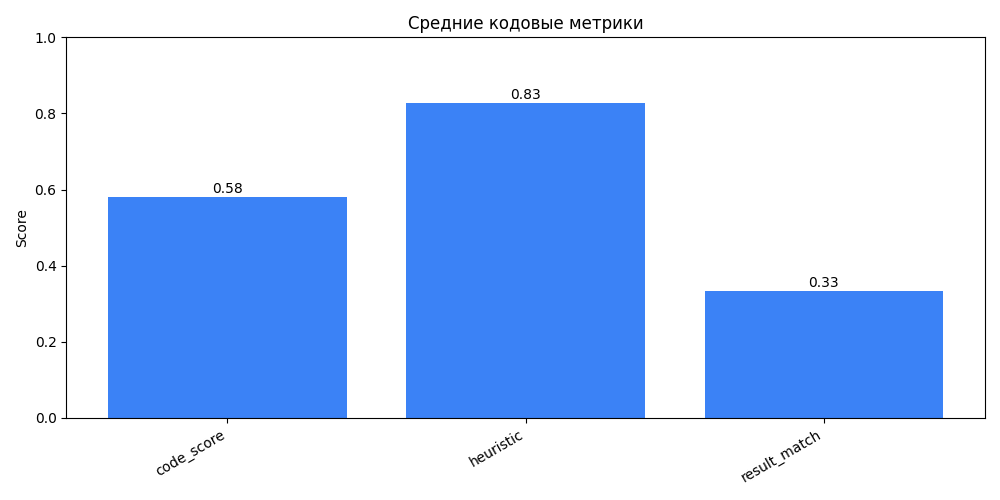
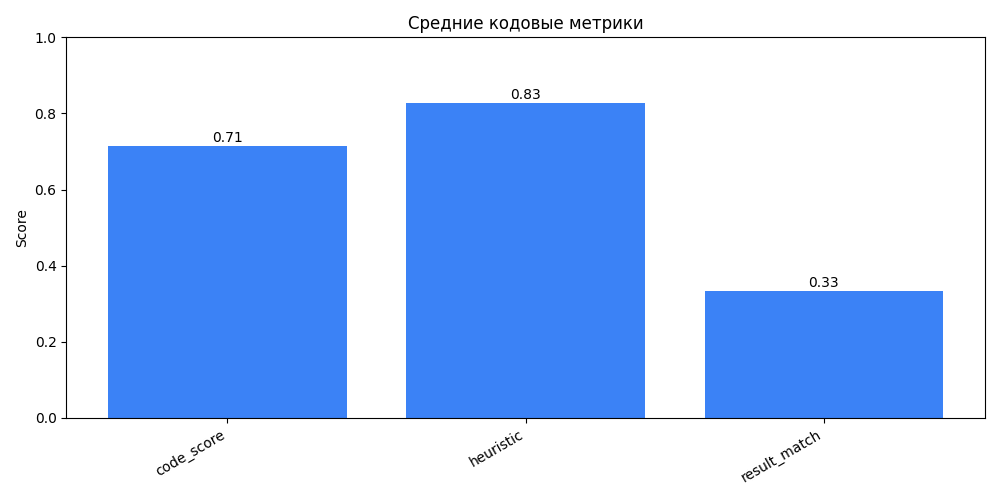
[SD-1579]feat: updated metrics

Changed region(s): [[0.093, 0.27, 0.372, 0.42]]

diff --git a/core/evaluation/eval_script.py b/core/evaluation/eval_script.py
@@ -73,6 +73,48 @@ def _has_plotly_calls(code: str) -> bool:
     lowered = code.lower()
     return "plotly" in lowered or "px." in lowered or "go." in lowered
 
+def _has_possible_code_object(
+    tree: ast.AST, possible_code_objects: list[str] | None
+) -> bool:
+    if not possible_code_objects:
+        return False
+    allowed = set(possible_code_objects)
+    for node in ast.walk(tree):
+        if isinstance(node, ast.Call):
+            func = node.func
+            if isinstance(func, ast.Name) and func.id in allowed:
+                return True
+            if isinstance(func, ast.Attribute) and func.attr in allowed:
+                return True
+        if isinstance(node, ast.Name) and node.id in allowed:
+            return True
+        if isinstance(node, ast.Attribute) and node.attr in allowed:
+            return True
+    return False
+
+
+def evaluate_object_match(
+    model_code: str,
+    possible_code_objects: list[str] | None = None,
+) -> dict[str, Any]:
+    """Evaluate code against AST-based requirements."""
+
+    try:
+        tree = ast.parse(model_code)
+    except SyntaxError:
+        return {
+            "score": 0.0,
+            "code_objects_match": False,
+            "errors": {"model": "syntax_error"},
+        }
+
+    object_match = _has_possible_code_object(tree, possible_code_objects)
+
+    return {
+        "score": 0.4,
+        "code_objects_match": object_match,
+    }
+
 
 def _load_all_benchmarks() -> list[dict[str, Any]]:
     """Load all benchmark cases from the configured directory with language tags."""
@@ -197,17 +239,27 @@ def evaluate_chat_semantics(
 # ---------------------------------------------------------------------------
 # Main evaluation logic
 # ---------------------------------------------------------------------------
-def evaluate_code(model_code: str, benchmark: str) -> dict[str, Any]:
+def evaluate_code(
+    model_code: str,
+    benchmark: str | None,
+    possible_code_objects: list[str] | None = None,
+) -> dict[str, Any]:
     """Score generated code using syntax, heuristic, and execution signals."""
 
     heuristic_score = 0.0
     syntax_score = 0.0
     import_score = 0.0
     call_score = 0.0
+    object_score = 0.0
     heuristic_breakdown: dict[str, Any] = {
         "syntax": {"score": 0.0, "ok": False},
         "imports": {"score": 0.0, "expected": [], "model": [], "matched": []},
         "calls": {"score": 0.0, "expected": [], "model": [], "matched": []},
+        "objects": {
+            "score": 0.0,
+            "possible": possible_code_objects or [],
+            "matched": False,
+        },
     }
 
     # 1⃣ Syntax check: fail fast on invalid Python
@@ -227,7 +279,7 @@ def evaluate_code(model_code: str, benchmark: str) -> dict[str, Any]:
             },
         }
 
-    expected_code = benchmark
+    expected_code = benchmark or ""
 
     # 2⃣ Imports: ensure required modules are present
     expected_imports = extract_imports(expected_code)
@@ -273,6 +325,10 @@ def evaluate_code(model_code: str, benchmark: str) -> dict[str, Any]:
         "model": sorted(adjusted_model_calls),
         "matched": sorted(matched),
     }
+
+    # 4⃣ Optional object match bonus
+    object_match_details = evaluate_object_match(model_code, possible_code_objects)
+    object_score = object_match_details.get("score", 0.0)
 
     # ---------- execution-based scoring ----------
     expected_result, expected_error = _run_code_in_sandbox(expected_code)
@@ -322,8 +378,11 @@ def evaluate_code(model_code: str, benchmark: str) -> dict[str, Any]:
         import_score * normalization_factor, 3
     )
     heuristic_breakdown["calls"]["score"] = round(call_score * normalization_factor, 3)
+    heuristic_breakdown["objects"]["score"] = round(
+        object_score * normalization_factor, 3
+    )
     combined_score = round(
-        min((normalized_heuristic * 0.5) + (0.5 if result_match else 0.0), 1.0), 3
+        min((normalized_heuristic * 0.5) + (0.5 if result_match else 0.5 * object_score), 1.0), 3
     )
 
     return {
@@ -395,11 +454,12 @@ def run_eval(
         # б - проверяем сгенерённый код
         code_score_details = None
         code_score = None
-        if case.get("expected_decision") == "code_generation" and case.get(
-            "expected_code"
-        ):
+        if case.get("expected_decision") == "code_generation":
+            possible_code_objects = case.get("possible_code_objects")
             code_score_details = evaluate_code(
-                model_output.get("generated_code", ""), case["expected_code"]
+                model_output.get("generated_code", ""),
+                case.get("expected_code"),
+                possible_code_objects=possible_code_objects,
             )
             code_score = code_score_details.get("score")
 
@@ -444,6 +504,7 @@ def build_report_data(
                 "expected_facts": meta.get("expected_facts"),
                 "forbidden_facts": meta.get("forbidden_facts"),
                 "expected_code": meta.get("expected_code"),
+                "possible_code_objects": meta.get("possible_code_objects"),
             }
         )
 

diff --git a/core/evaluation/tools/report_helpers.py b/core/evaluation/tools/report_helpers.py
@@ -416,6 +416,11 @@ def render_case_markdown(
             lines.append("```python")
             lines.append(case.get("expected_code"))  # type: ignore
             lines.append("```")
+            possible_code_objects = case.get("possible_code_objects") or []
+            if possible_code_objects:
+                lines.append(
+                    "- possible_code_objects: " + ", ".join(possible_code_objects)
+                )
             details = case.get("code_details") or {}
             lines.append("- expected_result:\n ")
             lines.append("```python")
@@ -493,45 +498,62 @@ def render_case_markdown(
         if case.get("expected_decision") == "code_generation":
             details = case.get("code_details") or {}
             lines.append(f"- code_score: {case.get('code_score')}")
-            lines.append("  - heuristic_score: " + str(details.get("heuristic_score")))
+            if "heuristic_score" in details:
+                lines.append(
+                    "  - heuristic_score: " + str(details.get("heuristic_score"))
+                )
             if details.get("plot_match_percent") is not None:
                 lines.append(
                     "  - plot_match: "
                     + str(details.get("plot_match_percent"))
                     + "%"
                 )
-            breakdown = details.get("heuristic_breakdown", {})
-            syntax_part = breakdown.get("syntax", {})
-            import_part = breakdown.get("imports", {})
-            calls_part = breakdown.get("calls", {})
-            lines.append(
-                "    - syntax_check: "
-                + str(syntax_part.get("score"))
-                + " (ok="
-                + str(syntax_part.get("ok"))
-                + ")"
-            )
-            lines.append(
-                "    - imports_score: "
-                + str(import_part.get("score"))
-                + " | expected: "
-                + ", ".join(import_part.get("expected", []))
-                + " | model: "
-                + ", ".join(import_part.get("model", []))
-                + " | matched: "
-                + ", ".join(import_part.get("matched", []))
-            )
-            lines.append(
-                "    - calls_score: "
-                + str(calls_part.get("score"))
-                + " | expected: "
-                + ", ".join(calls_part.get("expected", []))
-                + " | model: "
-                + ", ".join(calls_part.get("model", []))
-                + " | matched: "
-                + ", ".join(calls_part.get("matched", []))
-            )
-            lines.append("  - result_match: " + str(details.get("result_match")))
+            if details.get("heuristic_breakdown"):
+                breakdown = details.get("heuristic_breakdown", {})
+                syntax_part = breakdown.get("syntax", {})
+                import_part = breakdown.get("imports", {})
+                calls_part = breakdown.get("calls", {})
+                lines.append(
+                    "    - syntax_check: "
+                    + str(syntax_part.get("score"))
+                    + " (ok="
+                    + str(syntax_part.get("ok"))
+                    + ")"
+                )
+                lines.append(
+                    "    - imports_score: "
+                    + str(import_part.get("score"))
+                    + " | expected: "
+                    + ", ".join(import_part.get("expected", []))
+                    + " | model: "
+                    + ", ".join(import_part.get("model", []))
+                    + " | matched: "
+                    + ", ".join(import_part.get("matched", []))
+                )
+                lines.append(
+                    "    - calls_score: "
+                    + str(calls_part.get("score"))
+                    + " | expected: "
+                    + ", ".join(calls_part.get("expected", []))
+                    + " | model: "
+                    + ", ".join(calls_part.get("model", []))
+                    + " | matched: "
+                    + ", ".join(calls_part.get("matched", []))
+                )
+            if "result_match" in details:
+                lines.append("  - result_match: " + str(details.get("result_match")))
+            if details.get("requirements"):
+                lines.append(
+                    "  - requirements_match: "
+                    + str(details.get("requirements_match"))
+                )
+                for requirement in details.get("requirements", []):
+                    lines.append(
+                        "    - "
+                        + str(requirement.get("description") or requirement.get("id"))
+                        + ": "
+                        + str(requirement.get("ok"))
+                    )
 
         lines.append("")
 

diff --git a/core/workflow.py b/core/workflow.py
@@ -11,7 +11,6 @@ import torch
 from langchain_core.output_parsers import JsonOutputParser
 from langgraph.graph import END, StateGraph
 
-from core.evaluation.tools.code_evaluation_tools import CodeValidator
 from core.models import get_llm, get_tokenizer
 
 # Import prompt templates and schemas

diff --git a/core/evaluation/report_4_remote_llm/cases_report_en.md b/core/evaluation/report_4_remote_llm/cases_report_en.md
@@ -96,7 +96,7 @@ None
 
 ### code_002_pairplot_en (code_generation, language: en, difficulty: medium)
 
-**User input:** Create a pairplot of all features.
+**User input:** Create a pairplot for all features.
 
 
 **Ground truth:**
@@ -217,7 +217,7 @@ None
 
 **Метрики:**
 - decision_score: True
-- code_score: 0.5
+- code_score: 0.7
   - heuristic_score: 1.0
   - plot_match: 0.0%
     - syntax_check: 0.333 (ok=True)
@@ -231,6 +231,7 @@ None
 
 
 **Ground truth:**
+- possible_code_objects: RandomForestClassifier, DecisionTreeClassifier, SVC, KNeighborsClassifier, GaussianNB
 - expected_code:
 ```python
 from sklearn.linear_model import LogisticRegression
@@ -280,7 +281,7 @@ None
 
 **Метрики:**
 - decision_score: True
-- code_score: 0.241
+- code_score: 0.441
   - heuristic_score: 0.481
     - syntax_check: 0.333 (ok=True)
     - imports_score: 0.0 | expected: sklearn.linear_model | model: sklearn.ensemble, sklearn.model_selection | matched: 

diff --git a/core/evaluation/report_4_remote_llm/cases_report_ru.md b/core/evaluation/report_4_remote_llm/cases_report_ru.md
@@ -216,7 +216,7 @@ None
 
 **Метрики:**
 - decision_score: True
-- code_score: 0.5
+- code_score: 0.7
   - heuristic_score: 1.0
   - plot_match: 0.0%
     - syntax_check: 0.333 (ok=True)
@@ -230,6 +230,7 @@ None
 
 
 **Ground truth:**
+- possible_code_objects: RandomForestClassifier, DecisionTreeClassifier, SVC, KNeighborsClassifier, GaussianNB
 - expected_code:
 ```python
 from sklearn.linear_model import LogisticRegression
@@ -279,7 +280,7 @@ None
 
 **Метрики:**
 - decision_score: True
-- code_score: 0.241
+- code_score: 0.441
   - heuristic_score: 0.481
     - syntax_check: 0.333 (ok=True)
     - imports_score: 0.0 | expected: sklearn.linear_model | model: sklearn.ensemble, sklearn.model_selection | matched: 
